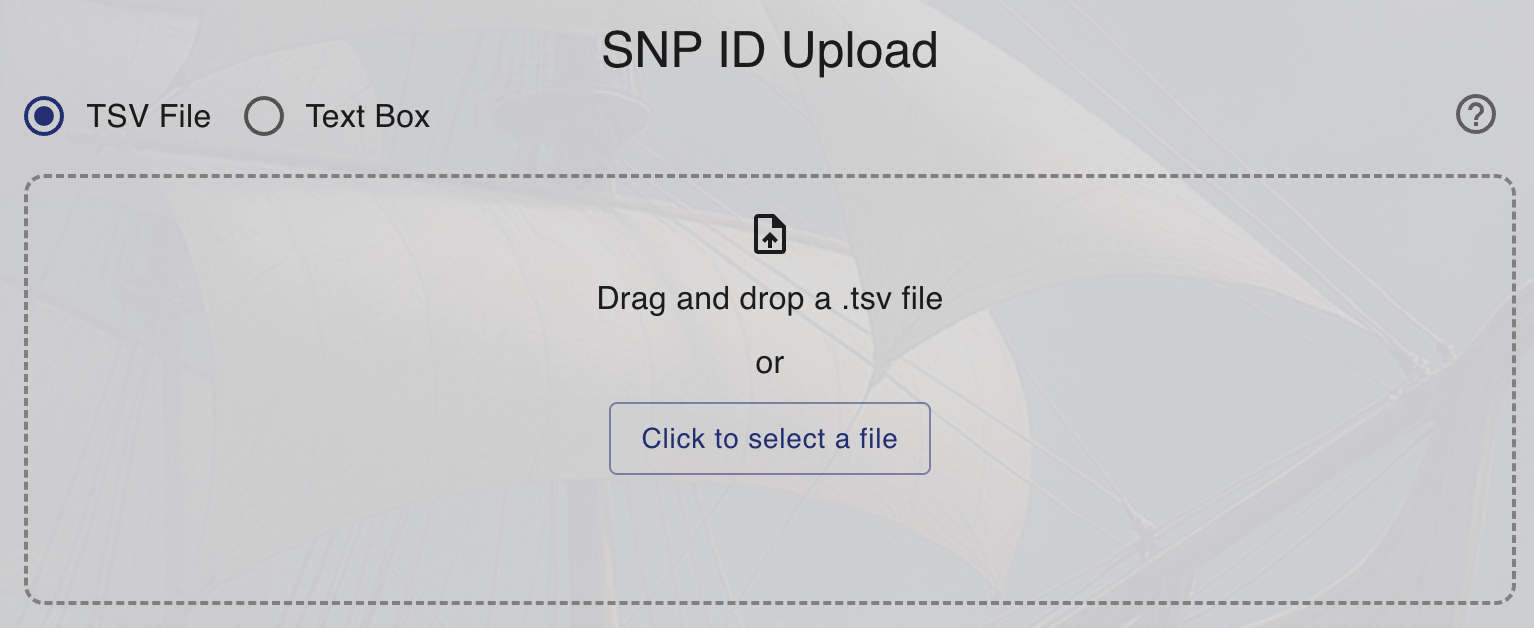
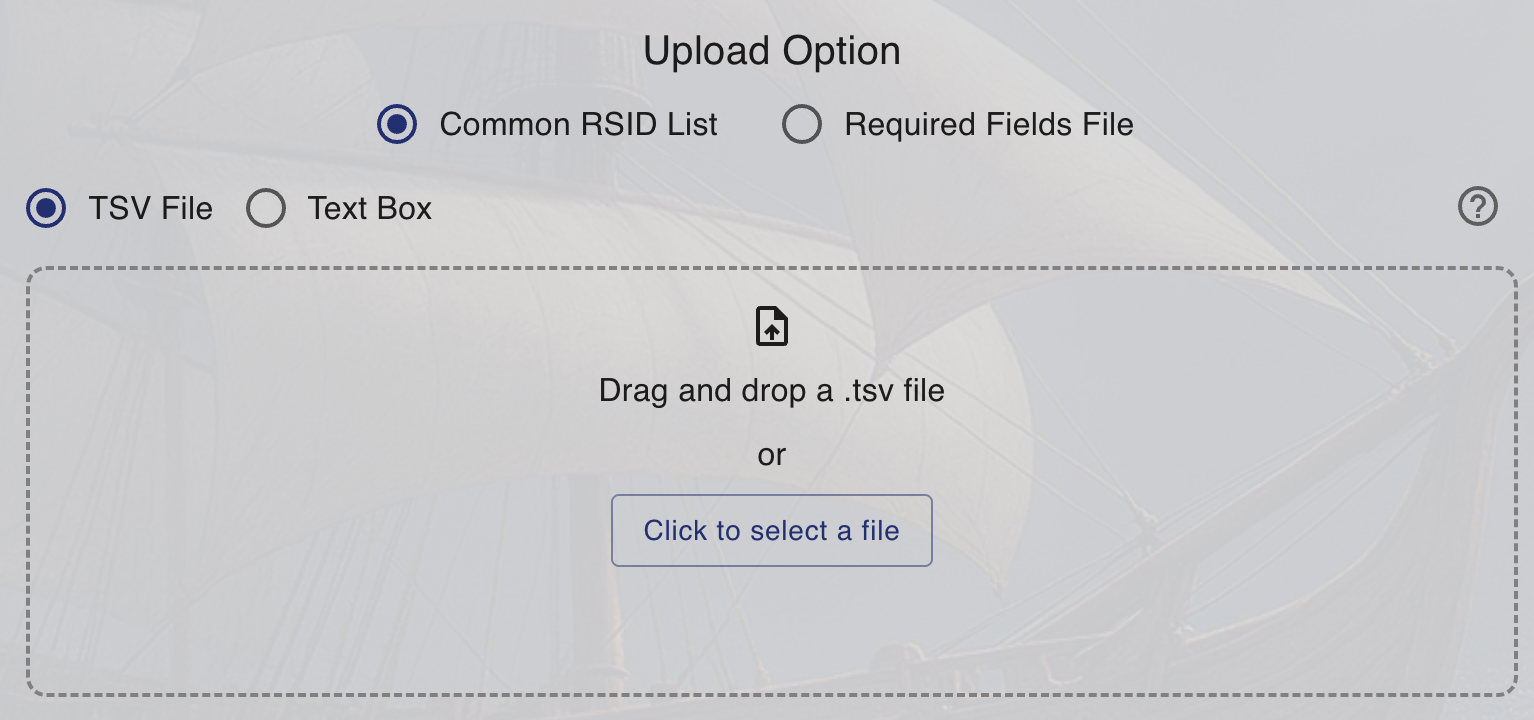
small changes

diff --git a/src/app/components/Header.tsx b/src/app/components/Header.tsx
@@ -58,8 +58,8 @@ function Header({ maintenance }: ResponsiveAppBarProps) {
             </Stack>
             <AppBar position="static">
                 <Toolbar sx={{ justifyContent: "space-between", backgroundColor: "rgba(249, 248, 244, 1)" }}>
-                    <Stack direction={"row"} spacing={2} alignItems={"center"}>
-                        <Box component={Link} href={"/"} height={45} width={40} position={"relative"}>
+                    <Stack direction={"row"} spacing={2} alignItems={"center"} component={Link} href={"/"}>
+                        <Box height={45} width={40} position={"relative"}>
                             <Image
                                 priority
                                 src="/argoLogo.png"
@@ -68,7 +68,7 @@ function Header({ maintenance }: ResponsiveAppBarProps) {
                                 style={{ objectFit: "contain", objectPosition: "left center" }}
                             />
                         </Box>
-                        <Typography variant="h5" color="black">
+                        <Typography variant="h5" color="black" >
                             ARGO
                         </Typography>
                     </Stack>

diff --git a/src/app/help/page.tsx b/src/app/help/page.tsx
@@ -54,8 +54,9 @@ export default function About() {
                         alignItems: "center",
                     }}>
                     <Typography mt={1} variant="body1" paragraph>
-                        You don&apos;t need a full ARGO safe file, however. Feel free to use our SNP Upload option and simply supply us with a list of
-                        RSID&apos;s, and then we&apos;ll do the rest! Just make sure that your home screen upload section says &quot;SNP Upload&quot; before you begin.
+                        You don&apos;t need a full ARGO safe file, however. Feel free to use our RSID upload option and simply supply us with a list of
+                        common RSID&apos;s, and then we&apos;ll do the rest! Just make sure that your home screen upload section says &quot;Common RSID List&quot; before you begin.
+                        We will autofill the rest of the required fields for you based on the ID&apos;s you provide and automatically rank them.
                     </Typography>
                     <Image src={snpUpload} alt={"Required Fields"} style={{ width: "80%", height: "80%" }} />
                 </Grid>

diff --git a/src/app/submitted/[submitted]/page.tsx b/src/app/submitted/[submitted]/page.tsx
@@ -27,7 +27,7 @@ export default function Argo() {
     const [geneFilterVariables, setGeneFilterVariables] = useState<GeneFilterState>(initialGeneFilterState);
 
     const filtersWidth = "25vw";
-    const headerHeight = 64
+    const headerHeight = 64;
 
     const filtersRef = useRef<HTMLDivElement>(null);
     const [filtersHeight, setfiltersHeight] = useState<number>(0);
